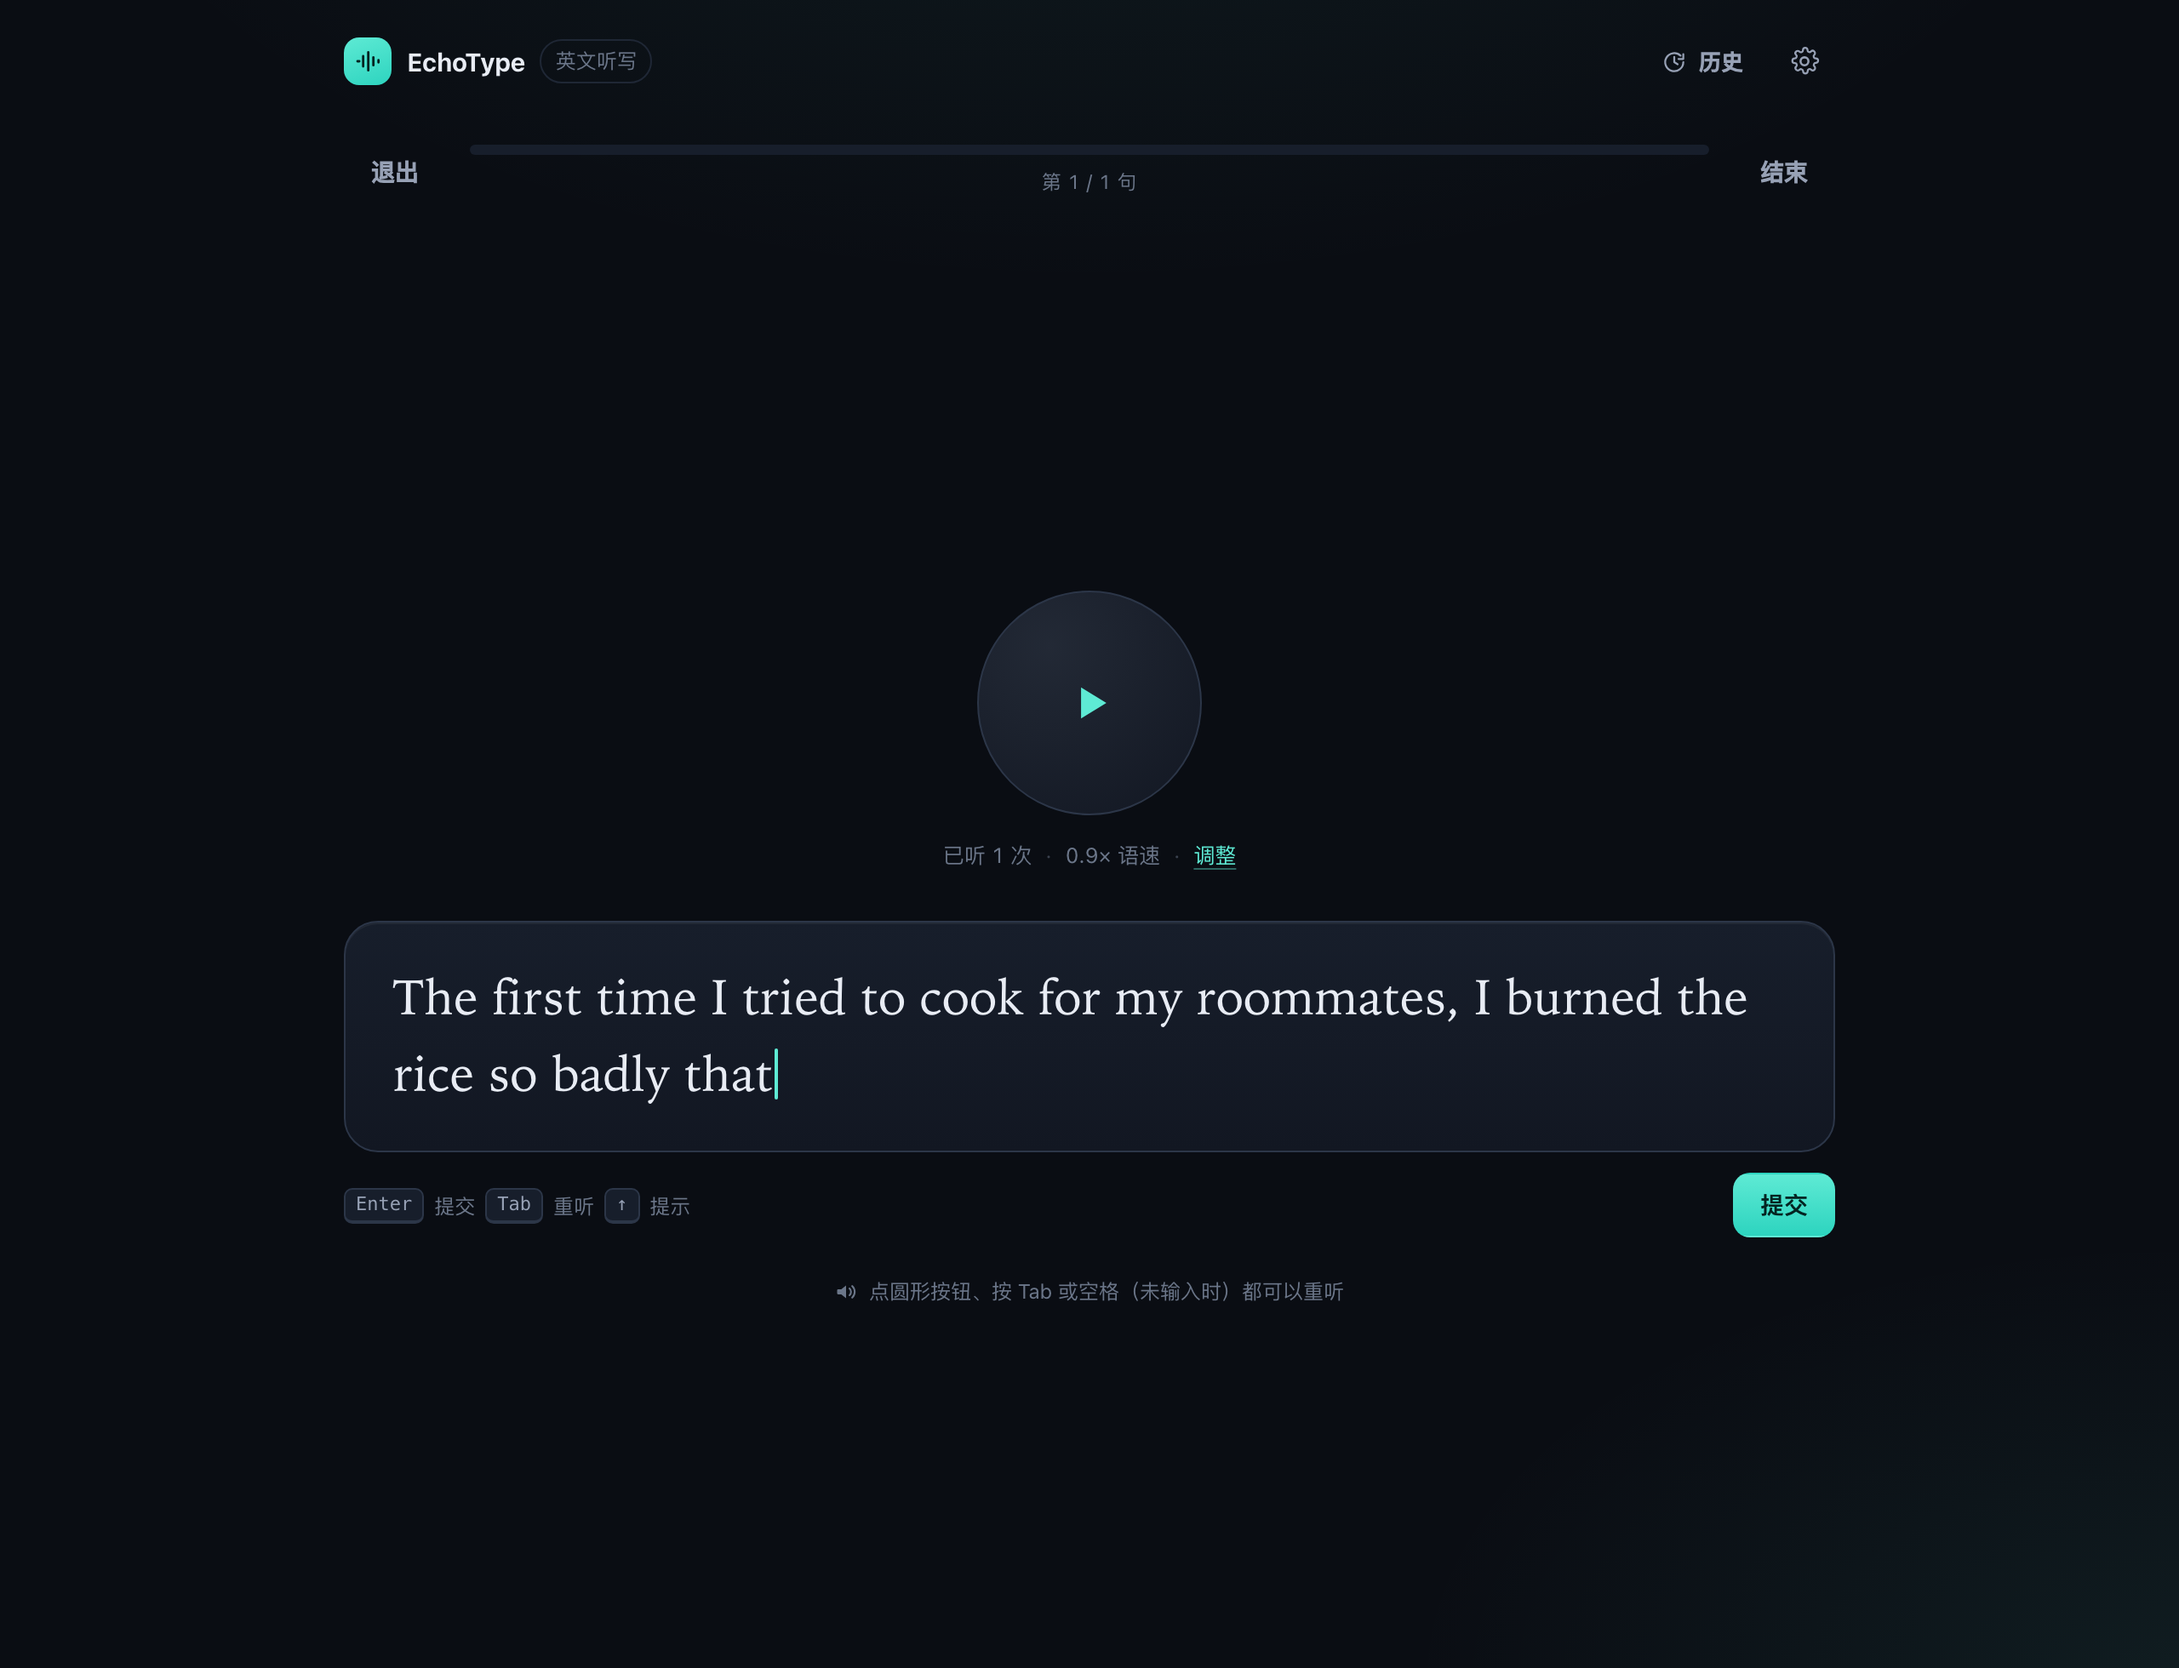
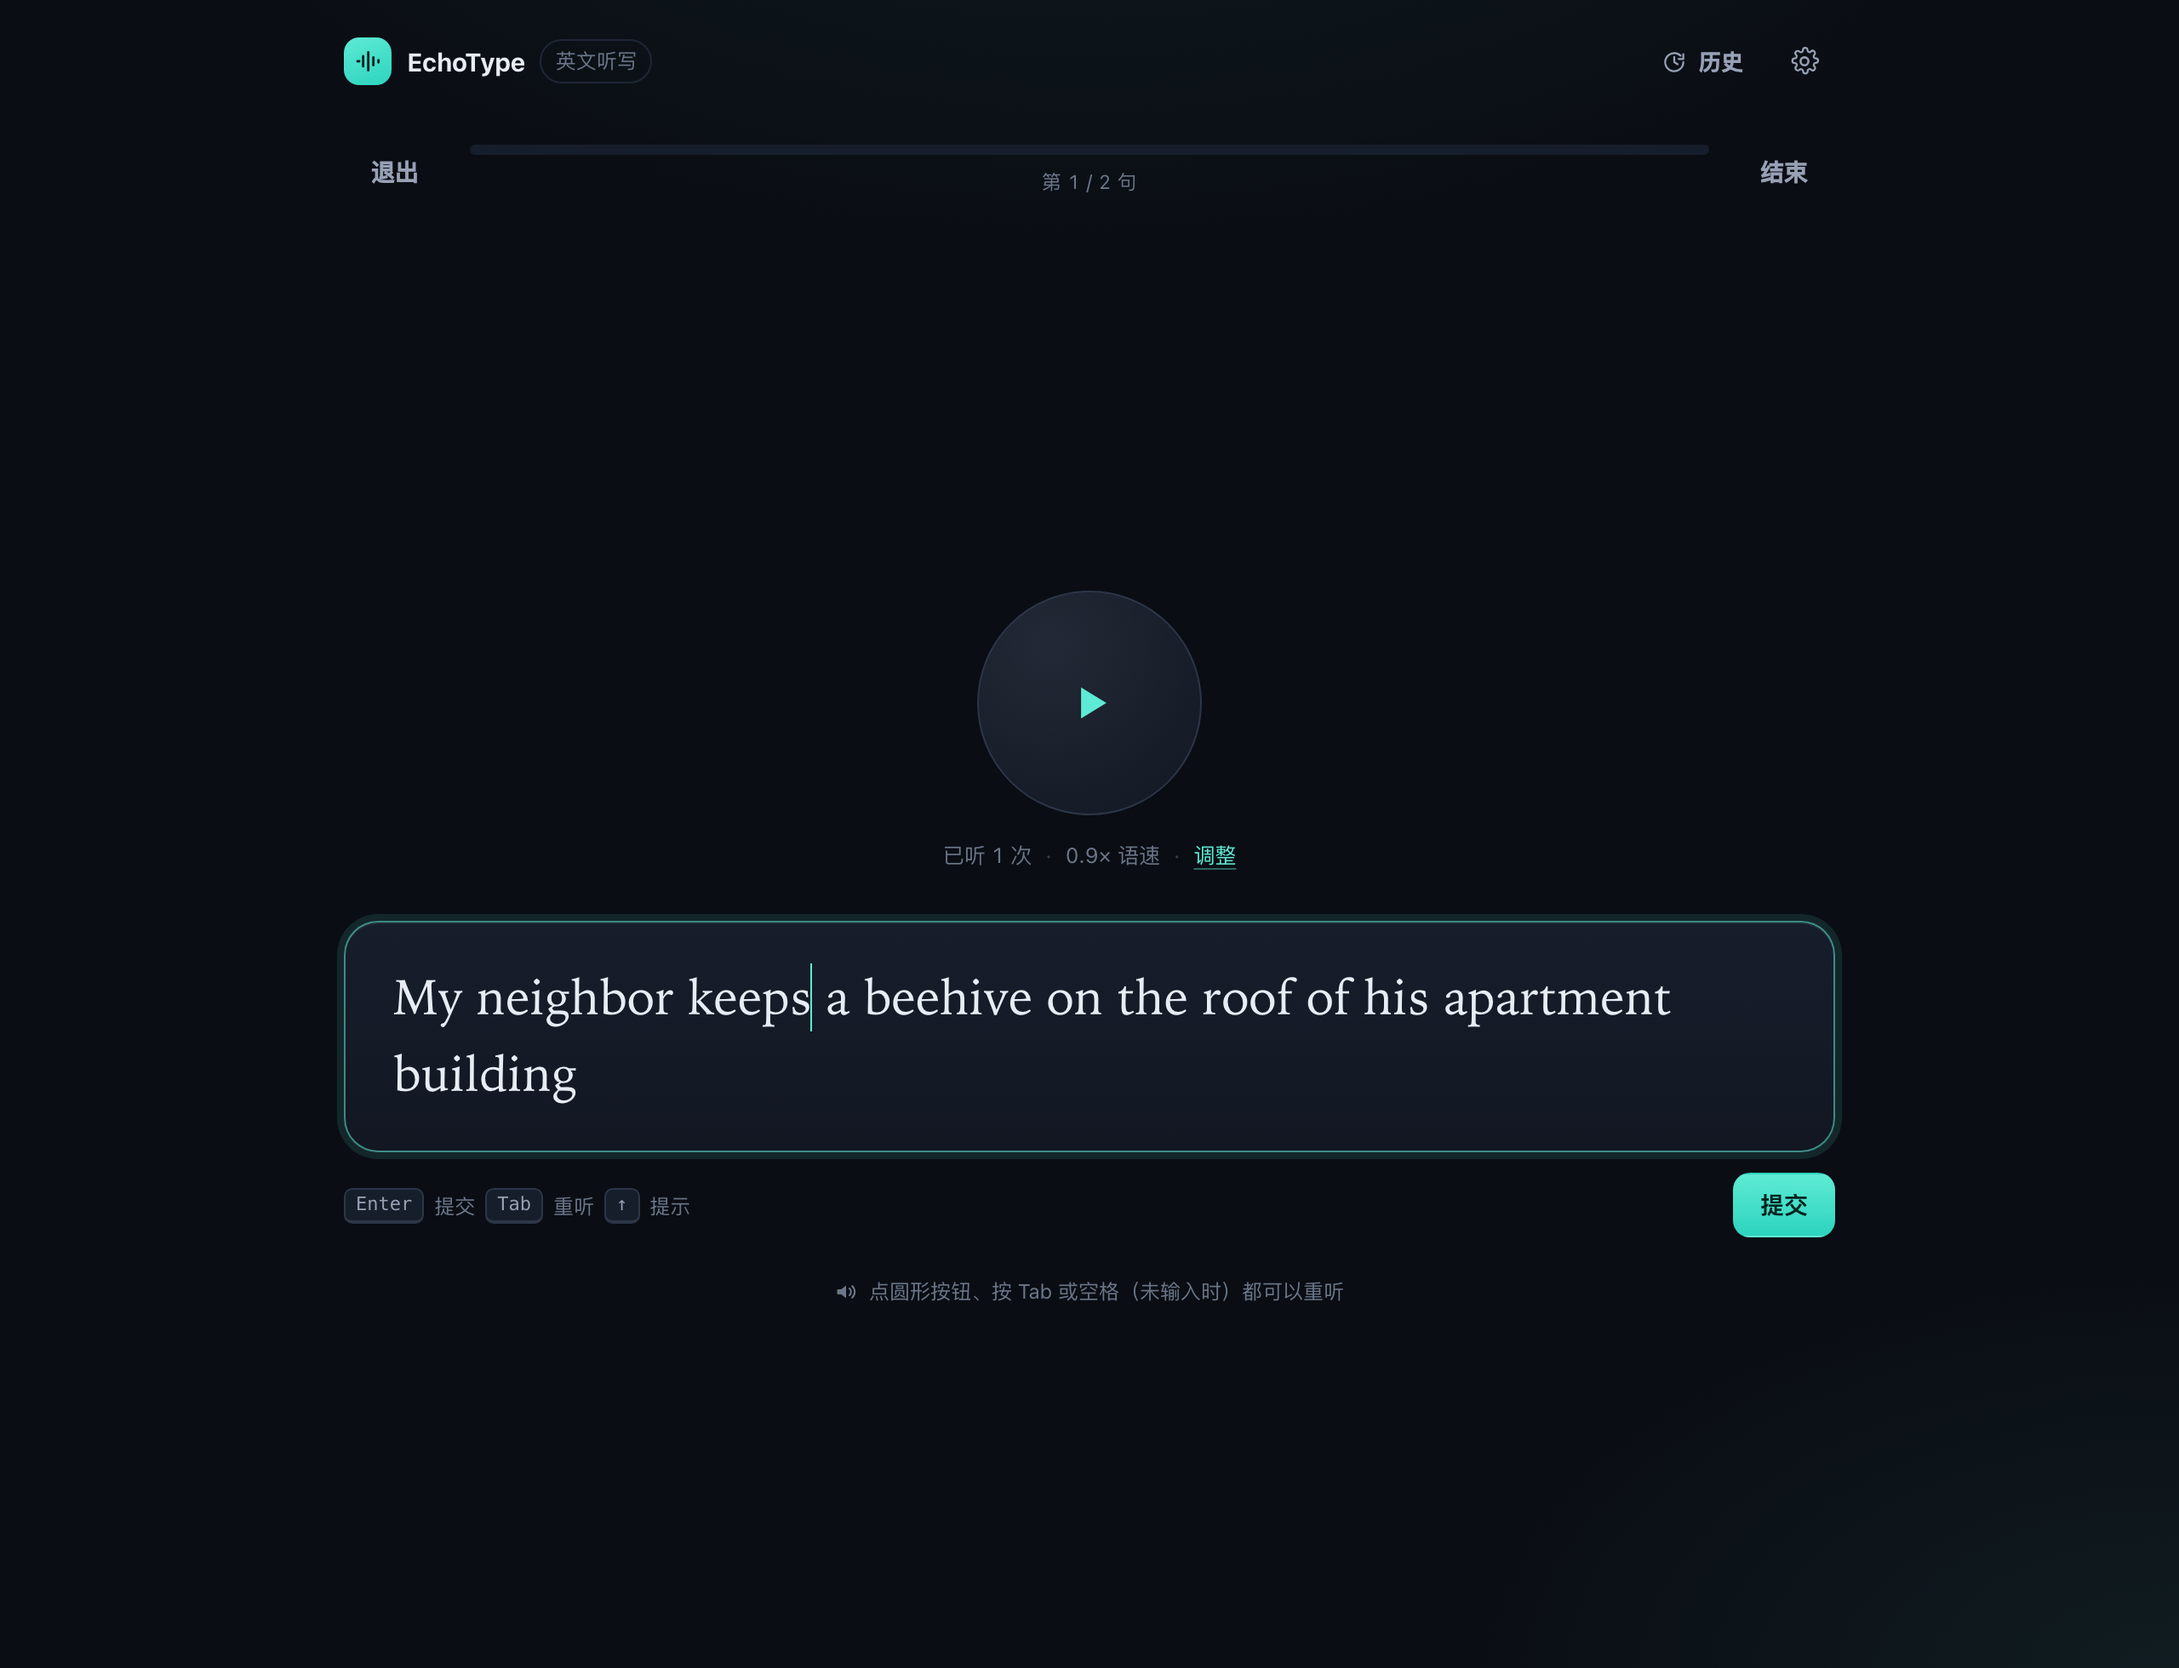
fix: 输入框支持鼠标点击定位光标
之前为了让自绘光标和真实 input 对齐，把 input 设成了 pointer-events:none，
点击一律把光标丢到末尾——不符合任何输入框的预期。

现在改成真正的 textarea（自增高、不滚动）：
- 点到哪个字符就落在哪里，原生选择 / 输入法 / 撤销都正常
- 原生青色光标（caret-color），去掉自绘光标和渲染层
- Enter 一律提交，不插入换行；粘贴的多行自动折成空格
- 点击面板留白只聚焦，不改光标位置

Changed region(s): [[0.1562, 0.5291, 0.8438, 0.6536], [0.1562, 0.6847, 0.8438, 0.7158]]

diff --git a/src/components/TypeArea.tsx b/src/components/TypeArea.tsx
@@ -1,75 +1,76 @@
-import { useEffect, useState, type RefObject } from "react";
+import { useCallback, useEffect, useLayoutEffect, useRef, useState, type RefObject } from "react";
 
 type Props = {
   value: string;
   onChange: (value: string) => void;
-  inputRef: RefObject<HTMLInputElement | null>;
+  inputRef: RefObject<HTMLTextAreaElement | null>;
   placeholder: string;
+  onSubmit?: () => void;
   disabled?: boolean;
 };
 
 /**
  * The typing surface for a dictated sentence.
  *
- * A real (but invisible) `<input>` owns the state, the caret and the IME, while
- * the visible layer draws every typed letter as a tile. Clicking anywhere puts
- * the caret at the end — that is what a dictation flow needs, and it keeps the
- * invisible input's layout from disagreeing with the tiles.
+ * This is a real `<textarea>` — native caret placement, selection, IME and
+ * undo all behave the way people expect. It auto-grows instead of scrolling,
+ * so a long sentence wraps onto the next line without a scrollbar.
  */
-export function TypeArea({ value, onChange, inputRef, placeholder, disabled }: Props) {
-  const [caret, setCaret] = useState(value.length);
+export function TypeArea({ value, onChange, inputRef, placeholder, onSubmit, disabled }: Props) {
   const [focused, setFocused] = useState(false);
+  const innerRef = useRef<HTMLTextAreaElement | null>(null);
+
+  const assignRef = useCallback(
+    (node: HTMLTextAreaElement | null) => {
+      innerRef.current = node;
+      inputRef.current = node;
+    },
+    [inputRef],
+  );
+
+  const resize = useCallback(() => {
+    const element = innerRef.current;
+    if (!element) return;
+    element.style.height = "auto";
+    element.style.height = `${element.scrollHeight}px`;
+  }, []);
+
+  useLayoutEffect(() => {
+    resize();
+  }, [value, resize]);
 
   useEffect(() => {
-    if (value === "") setCaret(0);
-  }, [value]);
-
-  const focusAtEnd = () => {
-    const input = inputRef.current;
-    if (!input || disabled) return;
-    input.focus({ preventScroll: true });
-    const end = input.value.length;
-    input.setSelectionRange(end, end);
-    setCaret(end);
-  };
-
-  const letters = Array.from(value);
-  const nodes: React.ReactNode[] = [];
-
-  letters.forEach((letter, index) => {
-    if (index === caret) nodes.push(<span key={`caret-${index}`} className="caret" aria-hidden="true" />);
-    // A plain inline span keeps normal text flow (words wrap at spaces, not
-    // between letters) — that is what typing surfaces in this genre look like.
-    nodes.push(
-      <span key={index} className="ch" aria-hidden="true">
-        {letter}
-      </span>,
-    );
-  });
-
-  if (caret >= letters.length) {
-    nodes.push(<span key="caret-end" className="caret" aria-hidden="true" />);
-  }
+    window.addEventListener("resize", resize);
+    return () => window.removeEventListener("resize", resize);
+  }, [resize]);
 
   return (
     <div
       className={`typearea ${focused ? "is-focused" : ""} ${disabled ? "is-disabled" : ""}`}
-      onClick={focusAtEnd}
+      onMouseDown={(event) => {
+        // Clicks on the padding around the text only focus the field; clicks on
+        // the text keep the browser's native caret placement.
+        if (event.target === innerRef.current) return;
+        event.preventDefault();
+        innerRef.current?.focus();
+      }}
     >
-      <input
-        ref={inputRef}
+      <textarea
+        ref={assignRef}
         className="typearea-input"
         value={value}
-        onChange={(event) => {
-          onChange(event.target.value);
-          setCaret(event.target.selectionStart ?? event.target.value.length);
-        }}
-        onSelect={(event) => {
-          const target = event.target as HTMLInputElement;
-          setCaret(target.selectionStart ?? target.value.length);
+        rows={1}
+        onChange={(event) => onChange(event.target.value.replace(/\r?\n/g, " "))}
+        onKeyDown={(event) => {
+          // One sentence, one line: Enter always submits, never inserts a break.
+          if (event.key !== "Enter") return;
+          if (event.nativeEvent.isComposing) return;
+          event.preventDefault();
+          onSubmit?.();
         }}
         onFocus={() => setFocused(true)}
         onBlur={() => setFocused(false)}
+        placeholder={placeholder}
         disabled={disabled}
         autoComplete="off"
         autoCorrect="off"
@@ -77,14 +78,6 @@ export function TypeArea({ value, onChange, inputRef, placeholder, disabled }: P
         spellCheck={false}
         aria-label="输入你听到的句子"
       />
-
-      <div className="typearea-display">
-        {value === "" ? (
-          <span className="typearea-placeholder">{placeholder}</span>
-        ) : (
-          nodes
-        )}
-      </div>
     </div>
   );
 }

diff --git a/src/styles.css b/src/styles.css
@@ -1088,65 +1088,33 @@ kbd {
 }
 
 .typearea-input {
-  position: absolute;
-  inset: 0;
   width: 100%;
-  height: 100%;
+  margin: 0;
   padding: 0;
   border: 0;
   background: transparent;
-  color: transparent;
-  caret-color: transparent;
-  opacity: 0;
-  pointer-events: none;
-}
-
-/* Reads like a line of writing, not a form control. */
-.typearea-display {
-  width: 100%;
-  white-space: pre-wrap;
-  overflow-wrap: break-word;
+  color: var(--text);
   font-family:
     ui-serif, "Iowan Old Style", "Charter", "Palatino Linotype", Palatino, Georgia,
     "Times New Roman", "Songti SC", serif;
   font-size: 29px;
   line-height: 1.55;
   letter-spacing: 0.004em;
-  color: var(--text);
+  caret-color: var(--accent);
+  resize: none;
+  overflow: hidden;
+  outline: none;
+  white-space: pre-wrap;
+  overflow-wrap: break-word;
+  min-height: 1.55em;
 }
 
-.ch {
-  /* nothing: plain inline text keeps normal word wrapping */
-}
-
-.typearea-placeholder {
+.typearea-input::placeholder {
   font-family:
     ui-sans-serif, system-ui, -apple-system, "PingFang SC", "Microsoft YaHei", sans-serif;
   font-size: 16.5px;
   line-height: 1.6;
   color: var(--text-faint);
-}
-
-.caret {
-  display: inline-block;
-  width: 2px;
-  height: 1.02em;
-  margin: 0 1px;
-  border-radius: 1px;
-  background: var(--accent);
-  vertical-align: -0.15em;
-  animation: caret-pulse 1.15s ease-in-out infinite;
-}
-
-@keyframes caret-pulse {
-  0%,
-  45% {
-    opacity: 1;
-  }
-  55%,
-  100% {
-    opacity: 0.12;
-  }
 }
 
 .answer-actions {
@@ -1804,7 +1772,7 @@ kbd {
     min-height: 108px;
   }
 
-  .typearea-display {
+  .typearea-input {
     font-size: 23px;
   }
 

diff --git a/src/components/PracticeView.tsx b/src/components/PracticeView.tsx
@@ -24,7 +24,7 @@ export function PracticeView({ sentences, settings, onFinish, onExit, onOpenSett
   apiRef.current = dictation;
 
   const spokenKeyRef = useRef<string | null>(null);
-  const inputRef = useRef<HTMLInputElement>(null);
+  const inputRef = useRef<HTMLTextAreaElement>(null);
   const finishedRef = useRef(false);
 
   const { current, phase, index, queue, plays, hintLevel, input, review } = dictation;
@@ -235,6 +235,7 @@ export function PracticeView({ sentences, settings, onFinish, onExit, onOpenSett
             onChange={dictation.setInput}
             inputRef={inputRef}
             placeholder="听到什么就写什么…"
+            onSubmit={handleSubmit}
           />
 
           <div className="answer-actions">

diff --git a/README.md b/README.md
@@ -51,8 +51,9 @@ OLLAMA_ORIGINS=https://limengke123.github.io ollama serve
 
 - 逐句朗读，圆形按钮 / `Tab` / 空格重听，显示已听次数
 - 实时语速调节（0.6×–1.2×）；音色只列 Chrome 自带的 Google 英文音色，默认 Google 美音，可试听
-- 输入区是一块「纸面」面板：29px 衬线字 + 一个细光标，长句自然折行；自动聚焦，
-  点圆形按钮、点「调整」、点页面空白处都不会丢焦点，回到输入框直接能继续打
+- 输入区是一块「纸面」面板：29px 衬线字 + 青色细光标，长句自然折行；
+  鼠标点到哪个字符就落在哪里改字，原生选择 / 输入法 / 撤销都正常；
+  自动聚焦，点圆形按钮、点「调整」、点页面空白处都不会丢焦点
 - 打字提交后做**词级 diff + 字符级高亮**：漏掉的词、多打的词、拼错的字母分别标出来
 - 三档判定：宽松（忽略大小写和标点）/ 标准 / 严格
 - 答对自动进入下一句；答错可以重听、重练
